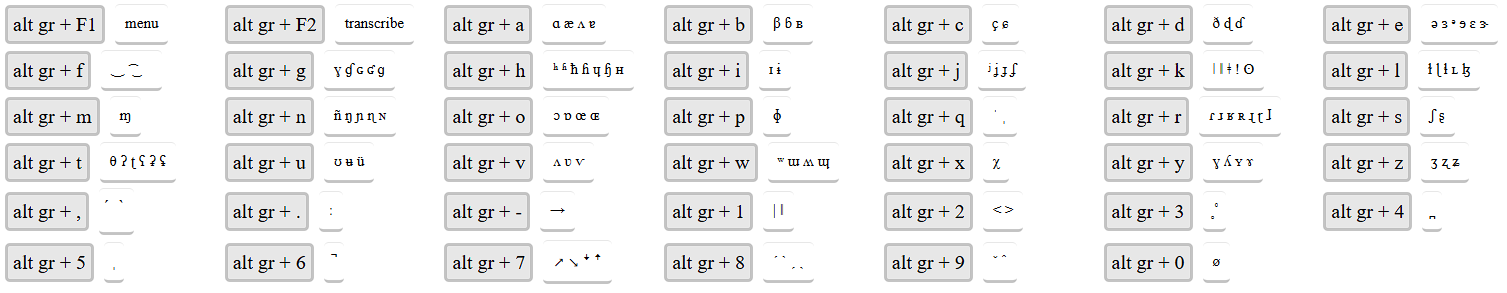
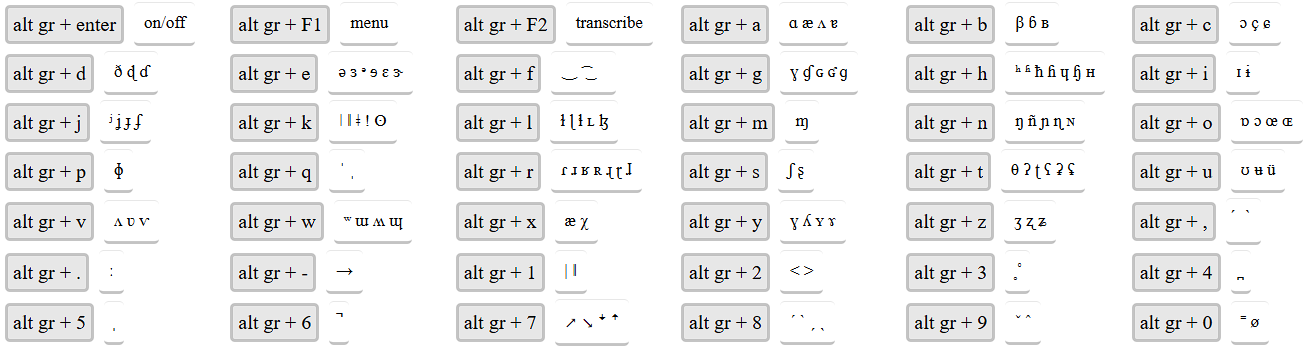
Changed shortcut images to reflect new symbol placement

Changed region(s): [[0.0, 0.0, 1.0, 1.0], [0.948, 0.9829, 0.9786, 1.0], [0.2446, 0.9829, 0.2752, 1.0]]

diff --git a/main.py b/main.py
@@ -26,7 +26,7 @@ import scripts.cycle_map as cycle_map
 import scripts.transcriptor as transcriptor
 import scripts.github
 
-VERSION = 'v1.3.4'
+VERSION = 'v1.3.5'
 APP_NAME = 'PhonoScribe'
 APP_ID = 'phonoscribe.transcription.utility'
 ICON = Image.open(get_url.resource_path('logo.png'))